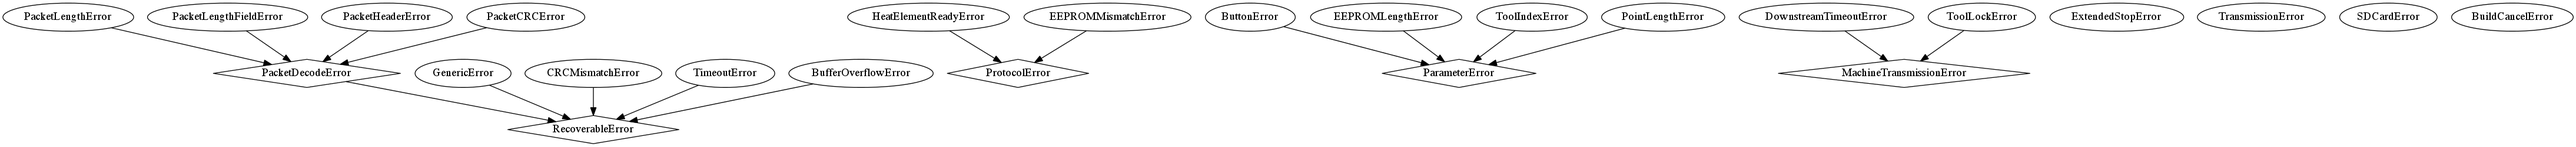
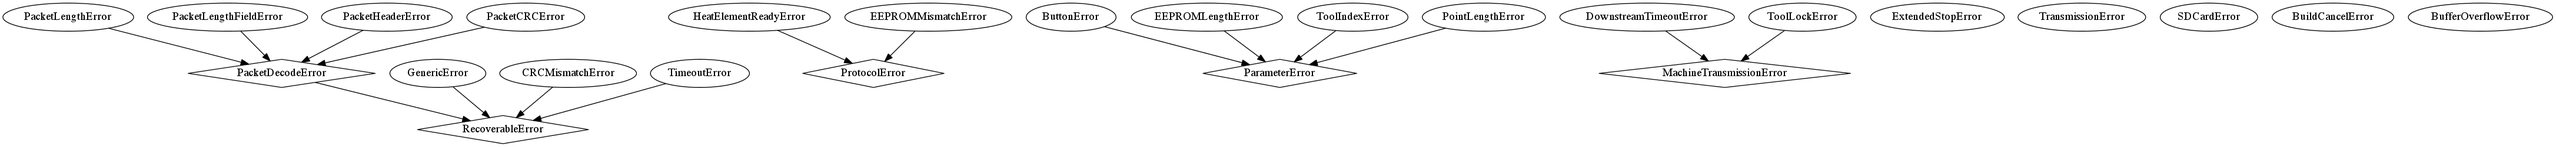
Refactored error architecture, updated some tests.

diff --git a/s3g/errors.py b/s3g/errors.py
@@ -1,13 +1,22 @@
 from constants import *
 
-class PacketDecodeError(Exception):
+class RetryableError(Exception):
+  """
+  RetryableError is a generic error that other errors inherit from.  An error is considered
+  retryable if it does not cause the state machine to halt.
+  """
+
+class PacketDecodeError(RetryableError):
   """
   Error that occured when evaluating a packet. These errors are caused by problems that
   are potentially recoverable.
   """
-  def __init__(self, value):
-    self.value = value
-    self.__name__= 'PacketDecodeError'     
+  def __init__(self, actual, expected):
+    self.value = {
+        'ExpectedValue' : expected,
+        'ActualValue'   : actual,
+        }
+
   def __str__(self):
     return str(self.value)
 
@@ -15,82 +24,37 @@ class PacketLengthError(PacketDecodeError):
   """
   Signifies an error in the length of a packet
   """
-  def __init__(self, length, expected_length):
-    self.length = length
-    self.expected_length = expected_length
-    self.value = {'LENGTH': self.length, 'EXPECTED LENGTH':self.expected_length}
-    self.__name__ = 'PacketLengthError'
 
 class PacketLengthFieldError(PacketDecodeError):
   """
   Signifies an error in a specific field of the packet (i.e. the payload isnt the correct length
   """
-  def __init__(self, length, expected_length):
-    self.length = length
-    self.expected_length = expected_length
-    self.value = {'LENGTH':self.length, 'EXPECTED LENGTH':self.expected_length}
-    self.__name__ = 'PacketLengthFieldError'
 
 class PacketHeaderError(PacketDecodeError):
   """
   Signifies an incorrect header on a packet
   """
-  def __init__(self, header, expected_header):
-    self.header = header
-    self.expected_header = expected_header
-    self.value = {'HEADER':self.header, 'EXPECTED HEADER':self.expected_header}
-    self.__name__ = 'PacketHeaderError'
 
 class PacketCRCError(PacketDecodeError):
   """
   Signifies a mismatch in expected and actual CRCs
   """
-  def __init__(self, crc, expected_crc):
-    self.crc = crc
-    self.expected_crc = expected_crc
-    self.value = {'CRC':self.crc, 'EXPECTED CRC':self.expected_crc}
-    self.__name__ = 'PacketCRCError'
 
-class ResponseError(Exception):
-  """
-  Errors that represent failures returned by the machine
-  """
-  def __init__(self, value):
-     self.value = value
-  def __str__(self):
-    return str(self.value)
-
-class BufferOverflowError(ResponseError):
-  """
-  Signifies a reported overflow of the buffer from the bot
-  """
-  def __init__(self):
-    self.value = 'BufferOverflow'
-
-class GenericError(ResponseError):
+class GenericError(RetryableError):
   """
   A generic error reported by the bot
   """
   def __init__(self, value):
     self.value = value
-    self.__name__ = 'RetryError'
 
-class CRCMismatchError(ResponseError):
+class CRCMismatchError(RetryableError):
   """
   Signifies a bad crc code was received by the bot
   """
   def __init__(self, value):
     self.value = value
-    self.__name__ = 'CRCMismatchError'
 
-class BuildCancelledError(ResponseError):
-  """
-  Signifies the cancellation of a build
-  """
-  def __init__(self):
-    self.value = 'BuildCancelled'
-
-class TimeoutError(ResponseError):
+class TimeoutError(RetryableError):
   """
   Signifies that a packet has taken too long to be received
   """
@@ -101,10 +65,16 @@ class TimeoutError(ResponseError):
         'DATA LENGTH':self.data_length,  
         'DECODER STATE':self.decoder_state
         }
-    self.__name__ = 'TimeoutError'
 
-  def __str__(self):
-    return str(self.value)
+class BufferOverflowError(Exception):
+  """
+  Signifies a reported overflow of the buffer from the bot
+  """
+
+class BuildCancelledError(Exception):
+  """
+  Signifies the cancellation of a build
+  """
 
 class TransmissionError(IOError):
   """
@@ -121,13 +91,19 @@ class TransmissionError(IOError):
                               #TransmissionErrors can contain
                               #a list of proximate errors that caused this
 
-class DownstreamTimeoutError(TransmissionError):
+class ToolBusError(IOError):
+  """
+  A toolbus error signifies a transmission error between the machine and its
+  toolbus.
+  """
+
+class DownstreamTimeoutError(ToolBusError):
   """
   Signifiees the machine cannot communicate with the tool
   due to a communication timeout.
   """
 
-class ToolLockError(TransmissionError):
+class ToolLockError(ToolBusError):
   """
   Signifies the machine cannot communicate with the tool
   due to the tool being locked
@@ -137,8 +113,6 @@ class ExtendedStopError(Exception):
   """
   An extended stop error is thrown if there was a problem executing an extended stop on the machine.
   """
-  def __str__(self):
-    return 'ExtendedStop'
 
 class SDCardError(Exception):
   """

diff --git a/tests/test_StreamWriter.py b/tests/test_StreamWriter.py
@@ -30,12 +30,16 @@ class StreamWriterTests(unittest.TestCase):
         'CRCMismatchError',
         'CRCMismatchError',
         'CRCMismatchError',
-        'CRCMismatchError',
-        'CRCMismatchError',
+        'GenericError',
+        'GenericError',
         ]
     response_payload = bytearray()
     response_payload.append(constants.response_code_dict['CRC_MISMATCH'])
-    for i in range(5):
+    for i in range(3):
+      self.outputstream.write(Encoder.EncodePayload(response_payload))
+    response_payload = bytearray()
+    response_payload.append(constants.response_code_dict['GENERIC_ERROR'])
+    for i in range(2):
       self.outputstream.write(Encoder.EncodePayload(response_payload))
     self.outputstream.seek(0)
     payload = 'asdf'

diff --git a/s3g/Writer/streamWriter.py b/s3g/Writer/streamWriter.py
@@ -87,7 +87,7 @@ class StreamWriter(AbstractWriter):
 
         time.sleep(.2)
 
-      except (errors.PacketDecodeError, errors.GenericError, errors.TimeoutError, errors.CRCMismatchError) as e:
+      except errors.RetryableError as e:
         # Sent a packet to the host, but got a malformed response or timed out waiting
         # for a reply. Retry immediately.
 
@@ -97,7 +97,7 @@ class StreamWriter(AbstractWriter):
 
         self.total_retries += 1
         retry_count += 1
-        received_errors.append(e.__name__)
+        received_errors.append(e.__class__.__name__)
 
       except Exception as e:
         # Other exceptions are propigated upwards.
